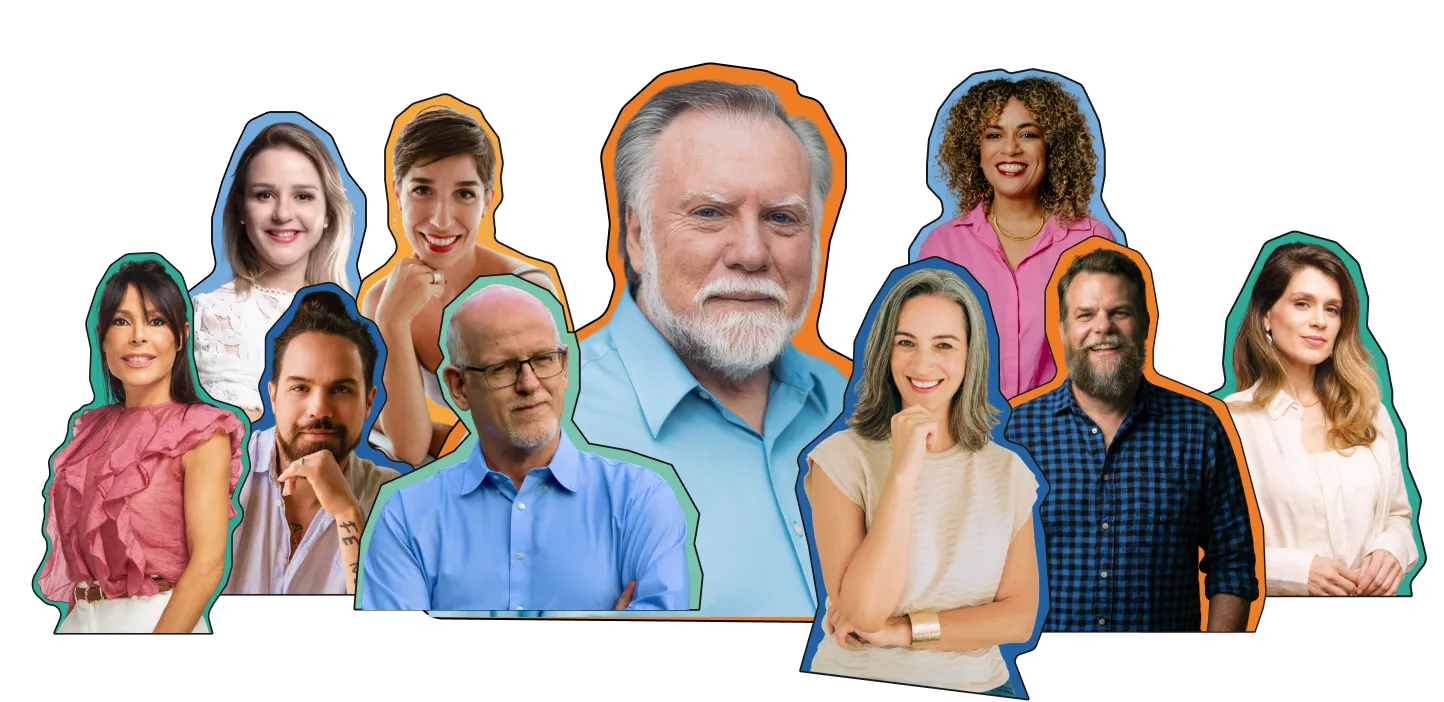
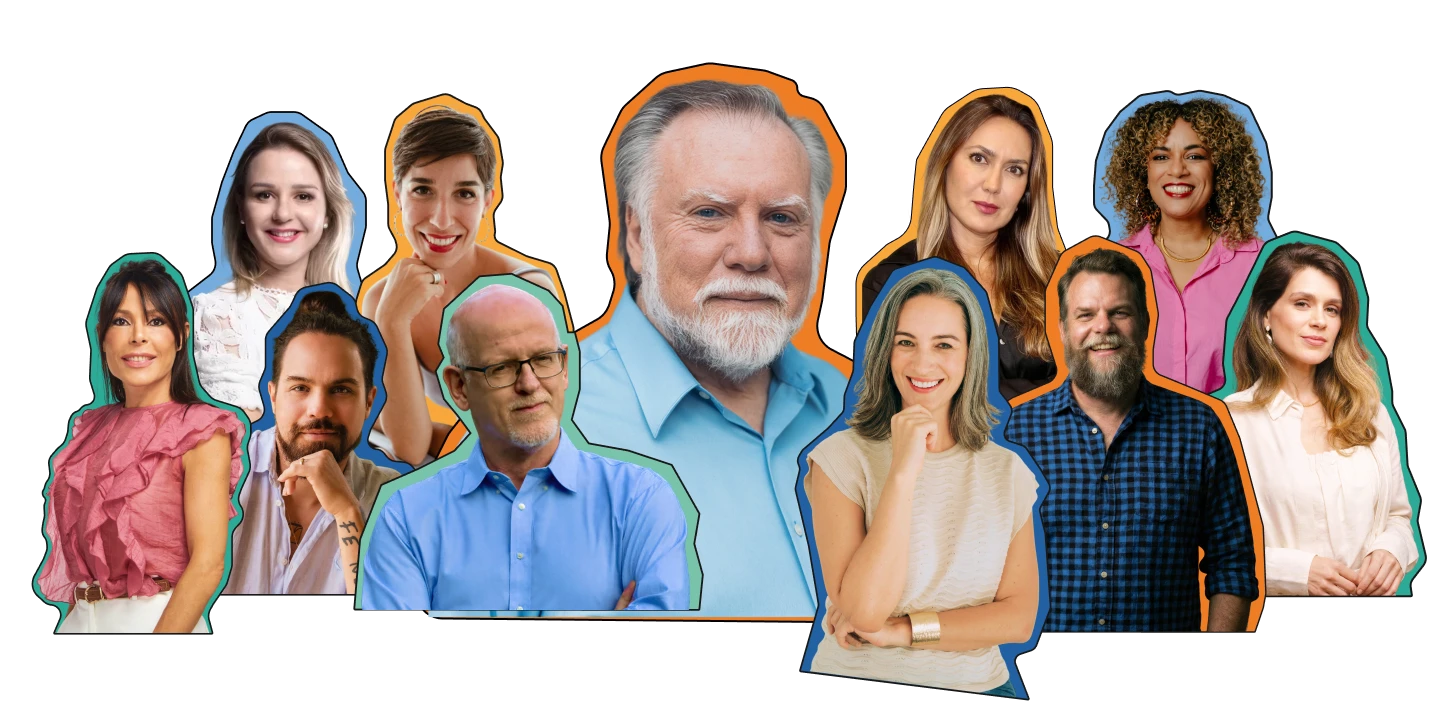
content(palestrantes): encurta descricoes dos palestrantes novos
- Descricoes mais curtas para Glaucia Marini, Paula Fratti, Fernanda
  Montano, Robert e Gustavo, Lisandrea e Lua Barros
- Nomes: "Robert e Gustavo (@2depais)" e "Lisandrea Z. S. Colabuono"

Changed region(s): [[0.5921, 0.0897, 0.9037, 0.5684]]

diff --git a/src/components/sections/SpeakersSection.tsx b/src/components/sections/SpeakersSection.tsx
@@ -352,7 +352,7 @@ export const allSpeakers: Speaker[] = [
     {
         id: 34,
         name: "Glaucia Marini",
-        description: "Educadora Parental, professora, pesquisadora das relações familiares e do desenvolvimento humano.",
+        description: "Educadora Parental, professora e pesquisadora das relações familiares",
         image: "/images/glaumar.webp",
         instagram: "https://www.instagram.com/glauciamarini/",
         bgColor: "#79c3ab",
@@ -361,7 +361,7 @@ export const allSpeakers: Speaker[] = [
     {
         id: 35,
         name: "Paula Fratti",
-        description: "Psicóloga, neuropsicóloga, palestrante e autora do livro Além do TDAH. Referência nacional em TDAH na infância e adolescência.",
+        description: "Psicóloga, neuropsicóloga e autora do livro Além do TDAH",
         image: "/images/paufra.webp",
         instagram: "https://www.instagram.com/paulafrati/",
         website: "https://paulafrati.com/cadastro-evento-org",
@@ -371,7 +371,7 @@ export const allSpeakers: Speaker[] = [
     {
         id: 36,
         name: "Fernanda Montano",
-        description: "Jornalista especializada em educação e parentalidade, com quase 20 anos de experiência em conteúdo e projetos voltados ao desenvolvimento humano e às relações familiares",
+        description: "Jornalista especializada em educação e parentalidade",
         image: "/images/fermon.webp",
         instagram: "https://www.instagram.com/fernandakmontano/",
         linkedin: "https://www.linkedin.com/in/fernandamontano/",
@@ -380,8 +380,8 @@ export const allSpeakers: Speaker[] = [
     },
     {
         id: 37,
-        name: "Robert e Gustavo",
-        description: "Casados há 15 anos, pais do Marc e da Maya (gêmeos) e do Rafa, o Golden Retriever da família. Engenheiros de formação, criam conteúdo sobre família, paternidade, viagens, receitas, casa e reformas.",
+        name: "Robert e Gustavo (@2depais)",
+        description: "Pais do Marc e da Maya (gêmeos) e criadores de conteúdo sobre família, paternidade",
         image: "/images/robegus.webp",
         instagram: "https://www.instagram.com/2depais/",
         bgColor: "#79c3ab",
@@ -389,8 +389,8 @@ export const allSpeakers: Speaker[] = [
     },
     {
         id: 38,
-        name: "Lisandréa Zonzini",
-        description: "Delegada de Polícia há 19 anos, atualmente Coordenadora do NOAD — Núcleo de Observação e Análise Digital. Mestre em Direito Constitucional e professora universitária",
+        name: "Lisandréa Z. S. Colabuono",
+        description: "Delegada de Polícia há 19 anos, atualmente Coordenadora do NOAD (Núcleo de Observação e Análise Digital)",
         image: "/images/delegada.webp",
         bgColor: "#74acde",
         category: "pais-cuidadores",
@@ -398,7 +398,7 @@ export const allSpeakers: Speaker[] = [
     {
         id: 39,
         name: "Lua Barros",
-        description: "Educadora parental, autora do best-seller “Eu Não Nasci Mãe”, fundadora da Rede Amparo e podcaster no Dilemas.",
+        description: "Educadora parental, autora do best-seller “Eu Não Nasci Mãe” e fundadora da Rede Amparo",
         image: "/images/luabar.webp",
         instagram: "https://www.instagram.com/luabarrosf/?hl=pt-br",
         linkedin: "https://www.linkedin.com/in/lua-barros-983452310/",

diff --git a/src/components/sections/SectionTakeaways.tsx b/src/components/sections/SectionTakeaways.tsx
@@ -26,7 +26,7 @@ const GROUPS = [
           "A sensação de pertencer a um campo que amadurece rapidamente e exige novas formas de compreender infância, vínculos e relações humanas.",
       },
       {
-        title: "Mais clareza sobre o seu papel",
+        title: "Entendimento sobre o seu papel",
         description:
           "Uma compreensão mais clara sobre como sustentar sua prática profissional de forma consistente, humana e relevante no mundo atual.",
       },
